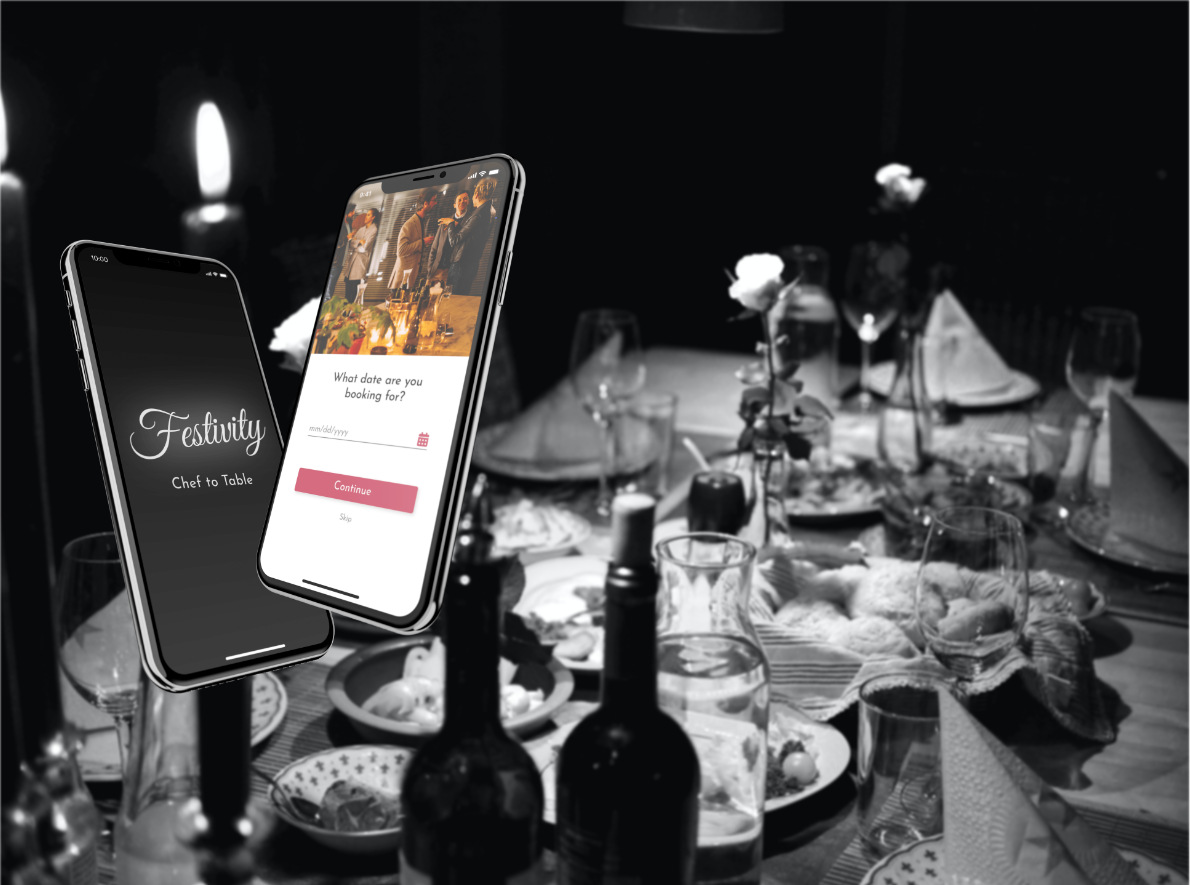
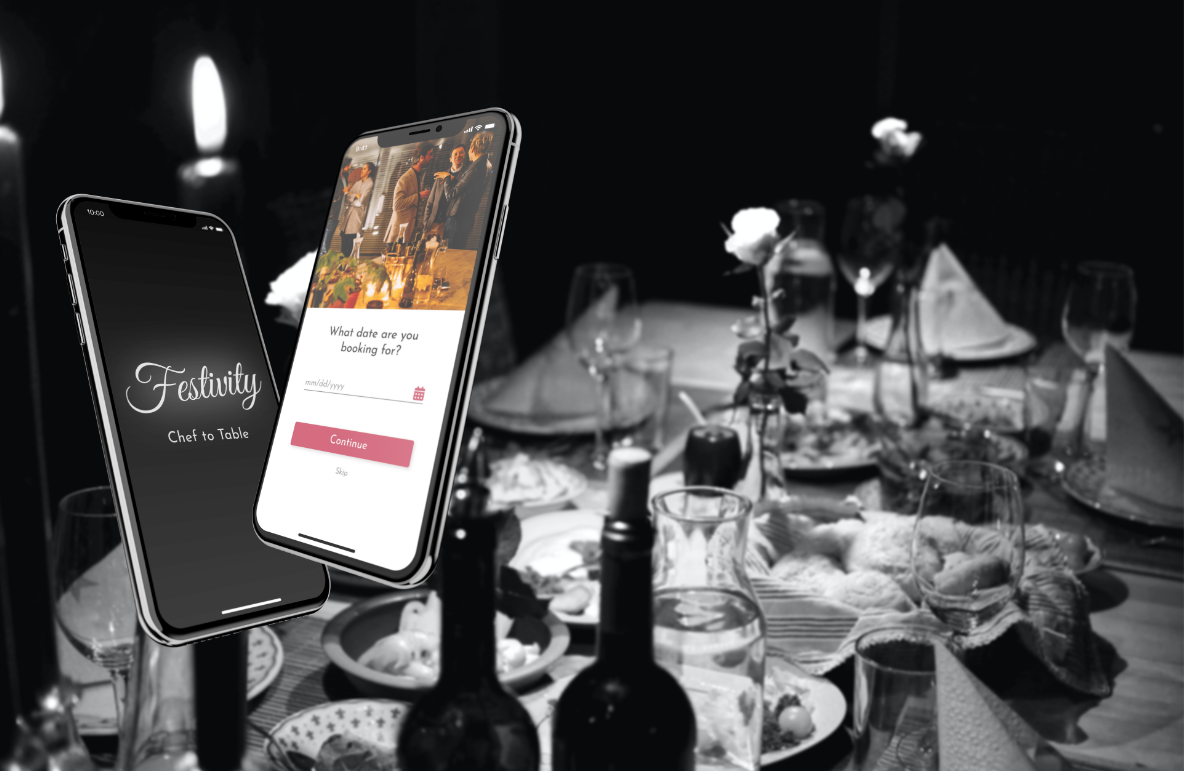
cropping images on Work page to match

diff --git a/index.html b/index.html
@@ -138,7 +138,7 @@
 					<div class="col-md-6 col-lg-8">
 						<picture>
 							<source srcset="img/work/Breeze-masthead-1x.jpg" media="(max-width:767px)">
-							<img src="img/work/Breeze-masthead-2x.jpg" alt="Image of Breeze Mobile App">
+							<img class="fixed-height" src="img/work/Breeze-masthead-2x.jpg" alt="Image of Breeze Mobile App">
 						</picture>
 					</div>
 					<div class="col-md-6 col-lg-4">
